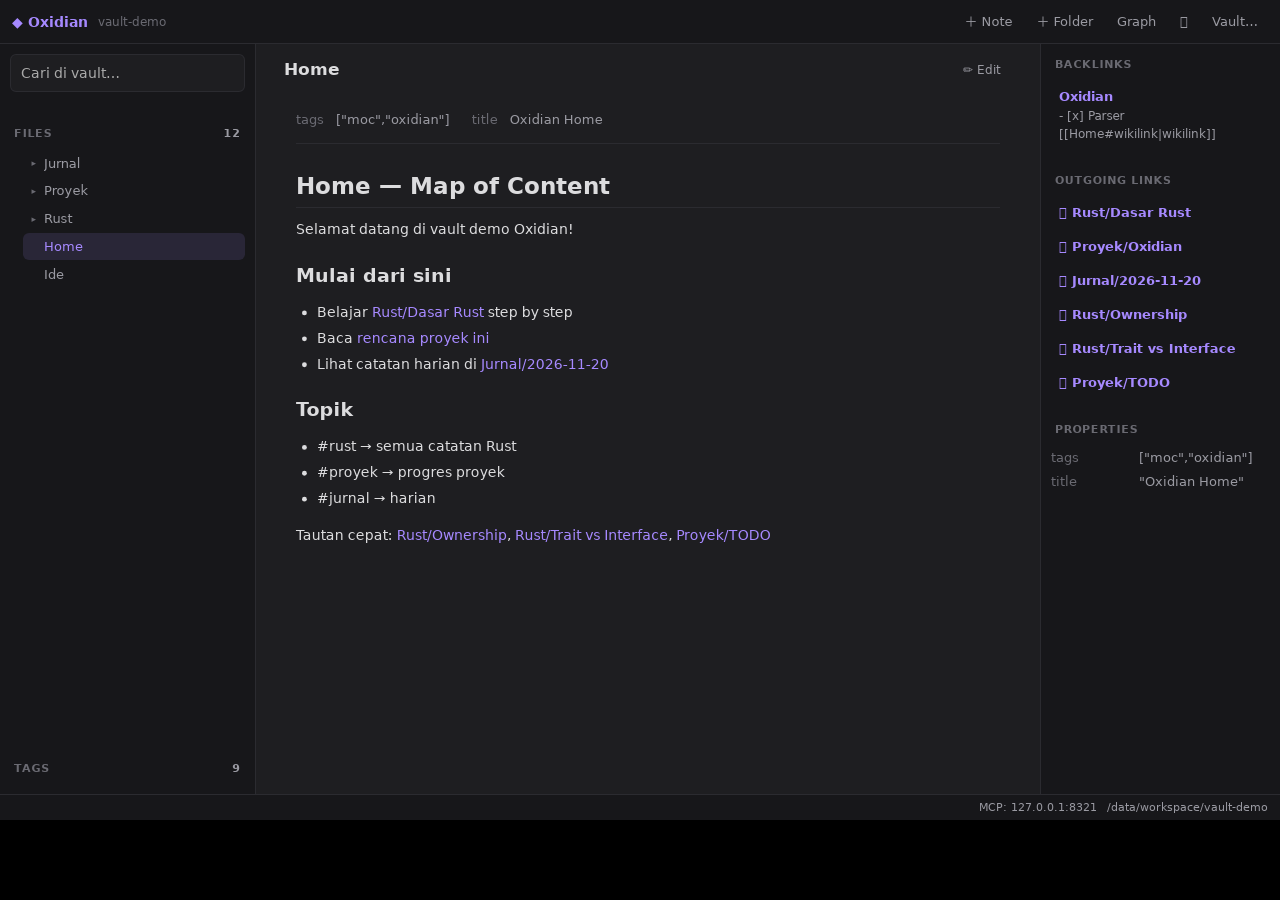
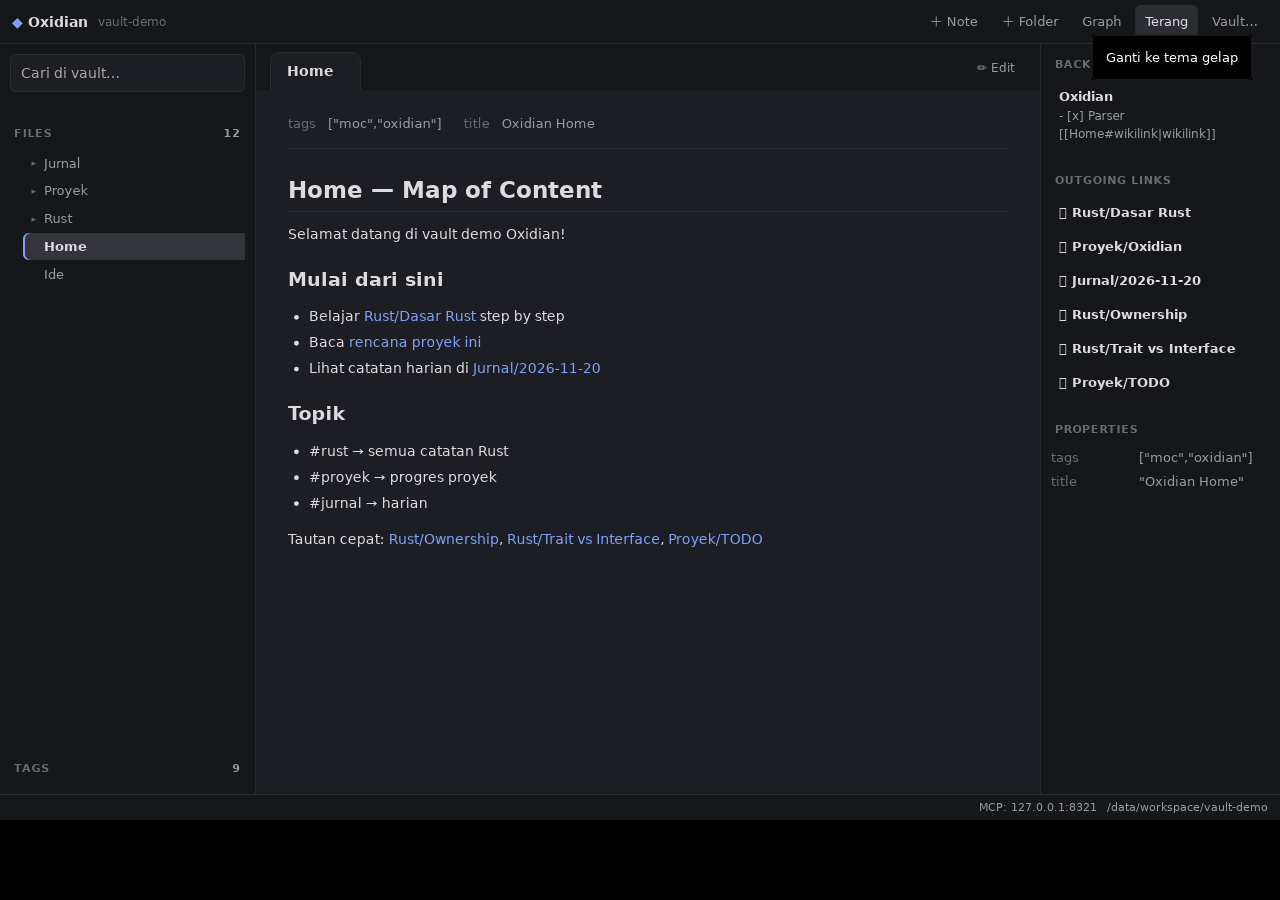
feat: aksen biru + layout editor tab-style — buang nuansa ungu & Notion-like
- palet aksen ungu → biru tenang (light #2e6be6, dark #7da2f7); teks semua netral
- brand, tree aktif, backlinks/outgoing title tidak lagi ungu; item aktif netral
  dengan bar aksen tipis di kiri
- konten full-width (hapus centering ala Notion), editor full width
- editor-head jadi TAB menyatu dengan konten: judul + path breadcrumb
- graph canvas: node biru tema-aware (label/edge menyesuaikan light/dark)

diff --git a/ui/style.css b/ui/style.css
@@ -4,45 +4,45 @@
 
 :root, :root[data-theme="light"] {
   --bg-primary: #ffffff;      /* konten/editor */
-  --bg-secondary: #f7f7f8;    /* sidebar & panel */
-  --bg-tertiary: #eeeeef;     /* tombol/input */
-  --bg-hover: #ececee;
-  --bg-active: #e3e3e7;
-  --text-normal: #232326;
-  --text-muted: #6f6f76;
-  --text-faint: #9d9da4;
-  --accent: #6c47ff;
-  --accent-strong: #5b3ee6;
-  --accent-soft: rgba(108, 71, 255, 0.09);
-  --border: #e5e5e8;
-  --border-strong: #d6d6db;
+  --bg-secondary: #f6f6f7;    /* sidebar & panel */
+  --bg-tertiary: #ededee;     /* tombol/input */
+  --bg-hover: #eaeaea;
+  --bg-active: #e0e0e3;
+  --text-normal: #222226;
+  --text-muted: #6d6d74;
+  --text-faint: #9c9ca3;
+  --accent: #2e6be6;          /* biru tenang — link & aksi utama */
+  --accent-strong: #1f5cd6;
+  --accent-soft: rgba(46, 107, 230, 0.08);
+  --border: #e4e4e7;
+  --border-strong: #d5d5da;
   --danger: #d44c3d;
   --good: #1a9e6c;
   --shadow: 0 10px 34px rgba(20, 20, 30, 0.14);
   --radius: 8px;
   --scrim: rgba(240, 240, 245, 0.55);
-  --mark: rgba(108, 71, 255, 0.16);
+  --mark: rgba(46, 107, 230, 0.14);
 }
 
 :root[data-theme="dark"] {
-  --bg-primary: #1e1e21;
-  --bg-secondary: #17171a;
-  --bg-tertiary: #26262a;
-  --bg-hover: #2c2c31;
-  --bg-active: #34343a;
-  --text-normal: #dcdcde;
-  --text-muted: #9a9aa2;
-  --text-faint: #6a6a72;
-  --accent: #a689ff;
-  --accent-strong: #8b6dff;
-  --accent-soft: rgba(166, 137, 255, 0.13);
-  --border: #2b2b30;
-  --border-strong: #3a3a40;
+  --bg-primary: #1d1e23;
+  --bg-secondary: #16171b;
+  --bg-tertiary: #26272c;
+  --bg-hover: #2c2d33;
+  --bg-active: #34353c;
+  --text-normal: #dcdce0;
+  --text-muted: #9a9aa3;
+  --text-faint: #6a6a73;
+  --accent: #7da2f7;          /* biru lembut di dark */
+  --accent-strong: #5b84e8;
+  --accent-soft: rgba(125, 162, 247, 0.12);
+  --border: #2b2c31;
+  --border-strong: #3a3b41;
   --danger: #ff7b72;
   --good: #7ee2b8;
   --shadow: 0 10px 34px rgba(0, 0, 0, 0.5);
   --scrim: rgba(12, 12, 16, 0.6);
-  --mark: rgba(166, 137, 255, 0.22);
+  --mark: rgba(125, 162, 247, 0.2);
 }
 
 * { box-sizing: border-box; }
@@ -148,7 +148,8 @@ input[type="text"]:focus { border-color: var(--accent); }
   border-bottom: 1px solid var(--border);
 }
 .topbar-left { display: flex; align-items: center; gap: 10px; min-width: 0; }
-.brand { color: var(--accent); font-weight: 600; font-size: 13.5px; }
+.brand { color: var(--text-normal); font-weight: 700; font-size: 13.5px; }
+.brand .diamond { color: var(--accent); }
 .vault-name {
   font-size: 12px; color: var(--text-faint);
   overflow: hidden; text-overflow: ellipsis; max-width: 320px;
@@ -205,7 +206,7 @@ input[type="text"]:focus { border-color: var(--accent); }
   position: relative;
 }
 .tree-item:hover { background: var(--bg-hover); color: var(--text-normal); }
-.tree-item.active { background: var(--accent-soft); color: var(--accent); font-weight: 500; }
+.tree-item.active { background: var(--bg-active); color: var(--text-normal); font-weight: 600; box-shadow: inset 2px 0 0 var(--accent); border-radius: 6px 0 0 6px; }
 .tree-item .caret {
   font-size: 9px; width: 10px; color: var(--text-faint); text-align: center;
   transition: transform 0.15s ease;
@@ -237,20 +238,38 @@ input[type="text"]:focus { border-color: var(--accent); }
   min-width: 0; background: var(--bg-primary);
   transition: background 0.2s ease;
 }
+.editor-pane { background: var(--bg-secondary); }
 .editor-head {
-  display: flex; align-items: center; justify-content: space-between;
-  padding: 12px 28px 4px;
+  display: flex; align-items: flex-end; justify-content: space-between;
+  padding: 8px 14px 0;
 }
-.note-title { font-size: 16.5px; font-weight: 700; color: var(--text-normal); }
+.tab-strip { display: flex; min-width: 0; }
+.editor-tab {
+  display: inline-flex; align-items: center; gap: 10px;
+  background: var(--bg-primary);
+  border: 1px solid var(--border);
+  border-bottom: none;
+  border-radius: 9px 9px 0 0;
+  padding: 7px 16px 8px;
+  max-width: 460px; min-width: 0;
+}
+.editor-tab .note-title {
+  font-size: 13.5px; font-weight: 600; color: var(--text-normal);
+  overflow: hidden; text-overflow: ellipsis; white-space: nowrap;
+}
+.editor-tab .tab-path {
+  font-size: 11px; font-weight: 400; color: var(--text-faint);
+  overflow: hidden; text-overflow: ellipsis; white-space: nowrap;
+}
+.editor-head-actions { display: flex; align-items: center; gap: 6px; padding-bottom: 8px; }
 .editor-head-actions button { font-size: 12px; padding: 3px 10px; }
+.editor-body { background: var(--bg-primary); border-top: none; }
 
 .editor-body { flex: 1; min-height: 0; position: relative; }
 
 #editor {
   position: absolute; inset: 0;
-  width: min(100%, 860px);
-  left: 0; right: 0;
-  margin: 0 auto;
+  width: 100%;
   height: 100%;
   background: transparent; color: var(--text-normal);
   border: none; outline: none; resize: none;
@@ -262,10 +281,10 @@ input[type="text"]:focus { border-color: var(--accent); }
 .preview {
   position: absolute; inset: 0;
   overflow-y: auto;
-  padding: 14px 40px 70px;
+  padding: 16px 32px 70px;
   scroll-behavior: smooth;
 }
-.preview-inner { max-width: 760px; margin: 0 auto; }
+.preview-inner { max-width: none; }
 
 .preview h1, .preview h2, .preview h3, .preview h4 {
   color: var(--text-normal);
@@ -356,7 +375,8 @@ input[type="text"]:focus { border-color: var(--accent); }
   font-size: 12.5px;
 }
 .link-item:hover { background: var(--bg-hover); }
-.link-item .li-title { color: var(--accent); font-weight: 600; }
+.link-item .li-title { color: var(--text-normal); font-weight: 600; }
+.link-item:hover .li-title { color: var(--accent); }
 .link-item .li-snippet { color: var(--text-muted); font-size: 11.5px; }
 .link-item.resolved-no .li-title { color: var(--text-faint); font-style: italic; }
 

diff --git a/ui/index.html b/ui/index.html
@@ -44,7 +44,7 @@
   <div id="app" class="app hidden">
     <div class="topbar">
       <div class="topbar-left">
-        <span class="brand">◆ Oxidian</span>
+        <span class="brand"><span class="diamond">◆</span> Oxidian</span>
         <span id="vault-name" class="vault-name muted"></span>
       </div>
       <div class="topbar-actions">
@@ -85,7 +85,12 @@
       <!-- ---------- Editor tengah ---------- -->
       <section class="editor-pane">
         <div class="editor-head">
-          <span id="note-title" class="note-title">—</span>
+          <div class="tab-strip">
+            <div class="editor-tab">
+              <span id="note-title" class="note-title">—</span>
+              <span id="tab-path" class="tab-path"></span>
+            </div>
+          </div>
           <div class="editor-head-actions">
             <button id="btn-mode" title="Edit / Preview (Ctrl+E)">👁 Preview</button>
           </div>

diff --git a/ui/graph.js b/ui/graph.js
@@ -173,11 +173,12 @@ function drawFrame() {
     ctx.globalAlpha = ready * easeOutCubic(n.spawn);
     ctx.beginPath();
     ctx.arc(n.x, n.y, n._dr, 0, Math.PI * 2);
-    ctx.fillStyle = hot ? "#c9b3ff" : "#7c5cff";
+    const dark = document.documentElement.dataset.theme === "dark";
+    ctx.fillStyle = hot ? "#9db9ff" : (dark ? "#6f97f2" : "#2e6be6");
     ctx.fill();
-    if (hot) { ctx.strokeStyle = "#fff"; ctx.lineWidth = 1.5; ctx.stroke(); }
+    if (hot) { ctx.strokeStyle = dark ? "#fff" : "#1f5cd6"; ctx.lineWidth = 1.5; ctx.stroke(); }
     if (scale > 0.55 || hot) {
-      ctx.fillStyle = hot ? "#fff" : "rgba(220,215,235,0.75)";
+      ctx.fillStyle = hot ? (dark ? "#fff" : "#0d2a66") : (dark ? "rgba(215,222,240,0.8)" : "rgba(50,55,70,0.78)");
       ctx.font = "11px sans-serif";
       ctx.fillText(n.title, n.x + n._dr + 3, n.y + 4);
     }

diff --git a/ui/app.js b/ui/app.js
@@ -322,6 +322,7 @@ async function openNote(rel) {
   state.lastFm = note.frontmatter || {};
   state.dirty = false;
   $("note-title").textContent = note.title;
+  $("tab-path").textContent = note.rel_path !== note.title + ".md" ? note.rel_path : "";
   $("empty-state").classList.add("hidden");
   applyMode();
   $("editor").value = note.content;
@@ -360,6 +361,7 @@ function closeNoteView() {
   state.current = null;
   state.currentRaw = null;
   $("note-title").textContent = "—";
+  $("tab-path").textContent = "";
   $("editor").value = "";
   $("preview").innerHTML = "";
   $("empty-state").classList.remove("hidden");
